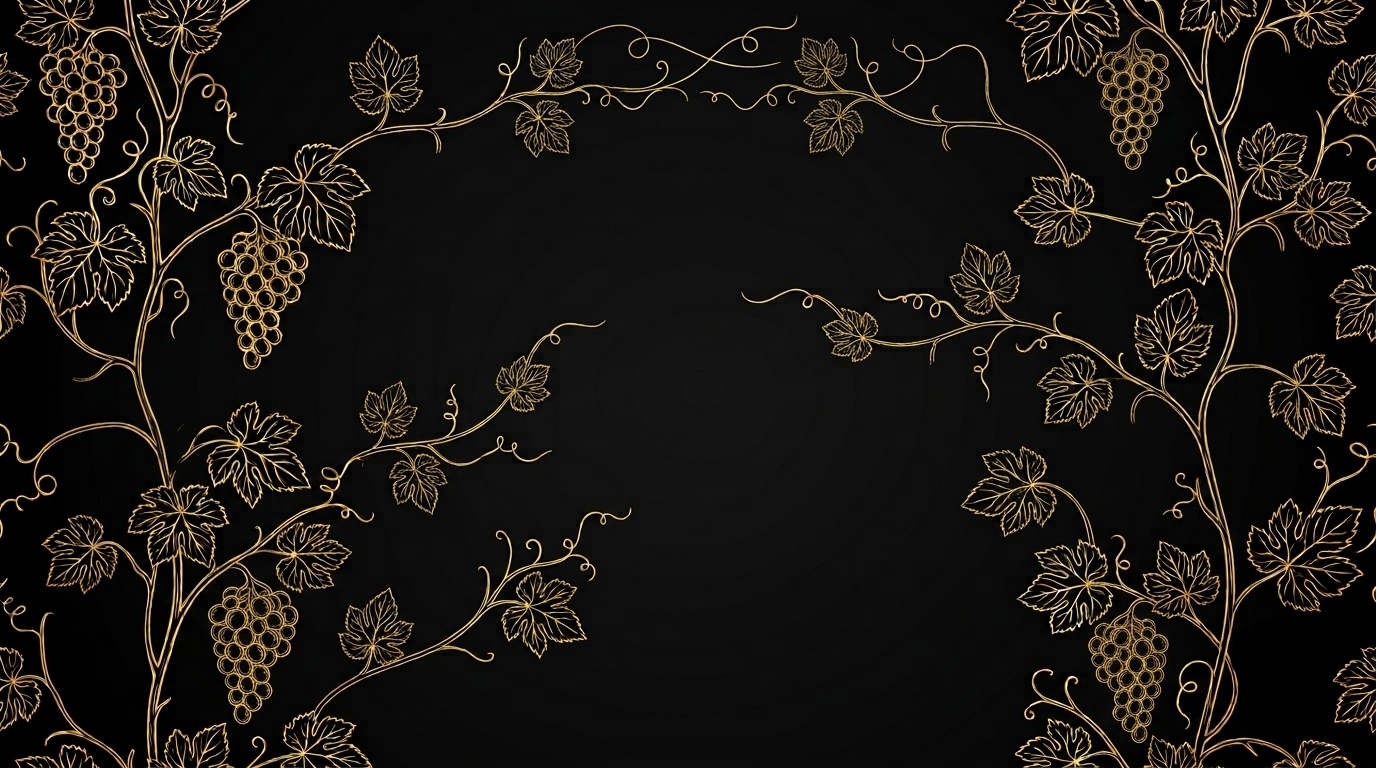
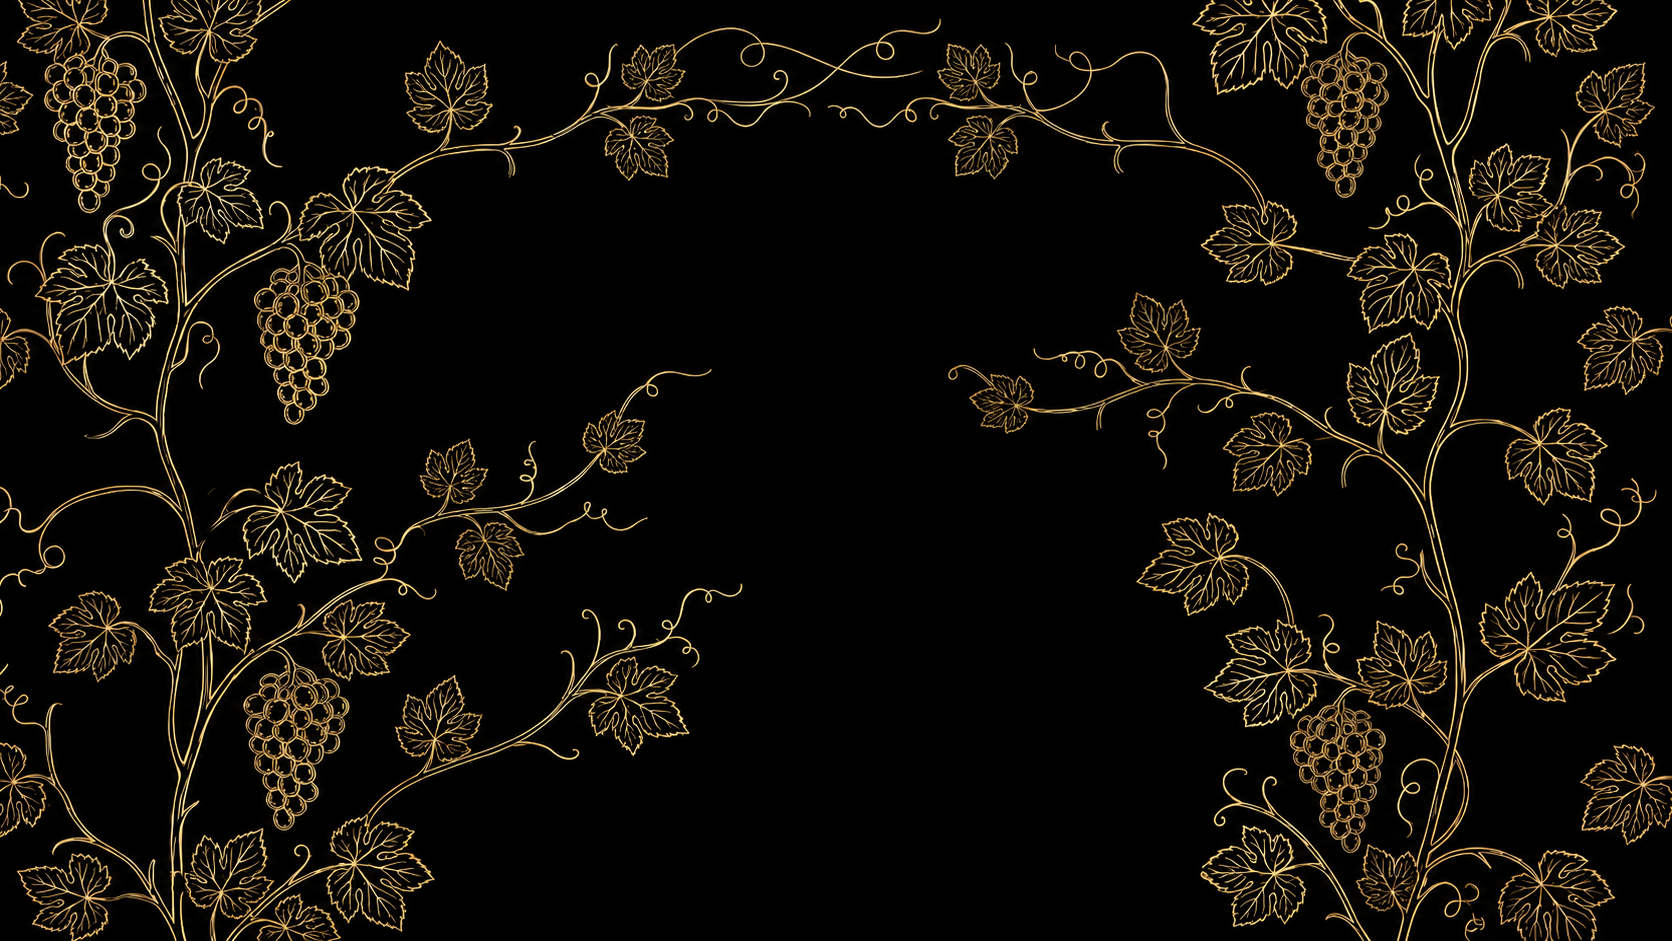
axali

Changed region(s): [[0.0, 0.0, 1.0, 1.0]]

diff --git a/src/pages/Hotel.jsx b/src/pages/Hotel.jsx
@@ -1,10 +1,29 @@
+import hotel from "/hotel.png";
+
 function Hotel() {
   return (
     <>
-    <div className="relative w-full flex flex-col items-center justify-center text-center px-4 overflow-hidden bg-footer min-h-[calc(100vh-5rem)] md:min-h-[calc(100vh-6rem)] lg:h-225 py-12">
-     
-       </div>
-    
+      <div className="relative w-full flex flex-col items-center justify-center text-center px-4 overflow-hidden bg-footer min-h-[calc(100vh-5rem)] md:min-h-[calc(100vh-6rem)] lg:h-225 py-12">
+        <div
+          className="absolute inset-0 bg-cover bg-center bg-no-repeat brightness-50"
+          style={{ backgroundImage: `url(${hotel})` }}
+        />
+
+        <div className="relative z-10 container-center flex flex-col items-center justify-around w-full max-w-7xl h-full min-h-100 lg:h-225 gap-8 lg:gap-0">
+          <p className="font-BPGB text-Gold  tracking-[0.3em] uppercase">
+            სოფელი ოჟიო · კახეთი · საქართველო
+          </p>
+
+          <h1  className="font-DM text-textMuted w-300 leading-40 text-5xl text-center ">
+         სადაც კომფორტი ხვდება 
+            <p className=" text-Gold">ტრადიციას </p>
+          </h1>
+
+          <p className="w-full max-w-2xl font-BPGB text-white  tracking-wide leading-relaxed">
+          აღმოაჩინეთ განსაკუთრებული მზრუნველობა და გარემო, სადაც თითოეული დეტალი თქვენს დასვენებაზე ფიქრობს.
+          </p>
+        </div>
+      </div>
     </>
   );
 }

diff --git a/src/pages/Restaurant.jsx b/src/pages/Restaurant.jsx
@@ -1,9 +1,29 @@
+import restoranBG from "/restoranBG.png";
 
 function Restaurant(){
     return(<>
     <div className="relative w-full flex flex-col items-center justify-center text-center px-4 overflow-hidden bg-footer min-h-[calc(100vh-5rem)] md:min-h-[calc(100vh-6rem)] lg:h-225 py-12">
-     
-       </div>
+        <div
+          className="absolute inset-0 bg-cover bg-center bg-no-repeat brightness-50"
+          style={{ backgroundImage: `url(${restoranBG})` }}
+        />
+
+        <div className="relative z-10 container-center flex flex-col items-center justify-around w-full max-w-7xl h-full min-h-100 lg:h-225 gap-8 lg:gap-0">
+          <p className="font-BPGB text-Gold  sm:text-sm tracking-[0.3em] uppercase">
+            სოფელი ოჟიო · კახეთი · საქართველო
+          </p>
+
+          <h1 className="font-DM text-textMuted w-300 leading-40 text-5xl text-center ">
+          ქართული სუფრის ხელოვნება
+          <p className=" text-Gold">ტრადიციული კახური მასპინძლობა</p>
+            
+          </h1>
+
+          <p  className="w-full max-w-2xl font-BPGB text-white  tracking-wide leading-relaxed">
+            სადაც ქვევრის ღვინო და საუკეთესო კახური კერძები ერთმანეთს ერწყმის.
+          </p>
+        </div>
+      </div>
     </>)
 }
 export default Restaurant;

diff --git a/src/pages/Home.jsx b/src/pages/Home.jsx
@@ -4,7 +4,6 @@ import meinIMG from "/9.jpg";
 import meinIMG_2 from "/10.jpg";
 import BGfoto_2 from "/12.jpg";
 import terasa from "/5.jpg";
-import qvevri from "/qvevri.SVG";
 import grapes from "/grapes.svg";
 import arrow from "/arrow.svg";
 import { NavLink } from "react-router-dom";
@@ -18,20 +17,17 @@ function Home() {
           style={{ backgroundImage: `url(${mainBg})` }}
         />
 
-        <div className="relative z-10 flex flex-col items-center justify-around w-full max-w-7xl h-full min-h-100 lg:h-225 gap-8 lg:gap-0">
-          <p className="font-BPGB text-Gold text-xs sm:text-sm tracking-[0.3em]">
+        <div className="relative z-10 container-center flex flex-col items-center justify-around w-full max-w-7xl h-full min-h-100 lg:h-225 gap-8 lg:gap-0">
+          <p className="font-BPGB text-Gold  tracking-[0.3em] uppercase">
             სოფელი ოჟიო · კახეთი · საქართველო
           </p>
 
-          <h1 className="flex flex-col items-center font-DM text-Gold text-3xl sm:text-4xl md:text-5xl lg:text-6xl text-center">
-            <span className="text-textMuted block mb-20 ">
-              ტრადიცია, გემოვნება და ქართული
-            </span>
-
-            <span className="block leading-normal">სტუმარმასპინძლობა</span>
+          <h1 className="font-DM text-textMuted w-300 leading-40 text-5xl text-center ">
+            ტრადიცია, გემოვნება და ქართული
+            <p className=" text-Gold">სტუმარმასპინძლობა</p>
           </h1>
 
-          <p className="font-BPGB text-textMuted text-sm sm:text-base tracking-wide">
+          <p className="w-full max-w-2xl font-BPGB text-white  tracking-wide leading-relaxed">
             ავთენტური ქვევრის ღვინო · გასტრონომია · ბუტიკ სასტუნრო
           </p>
         </div>

diff --git a/src/pages/Cellar.jsx b/src/pages/Cellar.jsx
@@ -13,19 +13,17 @@ function Cellar() {
         />
 
         <div className="relative z-10 container-center flex flex-col items-center justify-around w-full max-w-7xl h-full min-h-100 lg:h-225 gap-8 lg:gap-0">
-          <p className="font-BPGB text-Gold  sm:text-sm tracking-[0.3em] uppercase">
+          <p className="font-BPGB text-Gold tracking-[0.3em] uppercase">
             სოფელი ოჟიო · კახეთი · საქართველო
           </p>
 
-          <h1 className="font-DM text-textMuted w-300 leading-40 text-3xl sm:text-4xl md:text-5xl lg:text-6xl text-center ">
+          <h1 className="font-DM text-textMuted w-300 leading-40 text-5xl text-center ">
             ღვინის მარანი და კახური
             <p className=" text-Gold">ტრადიციების საწყისი </p>
           </h1>
 
-          <p className="w-full max-w-2xl font-BPGB text-white text-sm sm:text-base md:text-lg tracking-wide leading-relaxed">
-            8000 წლის ისტორია ახლა თქვენს ჭიქაშია. ბეკას მარანი — ადგილი, სადაც
-            ქვევრის ღვინო ისევ ისე ისხმება, როგორც ათასი წლის წინ — ბუნებრივად,
-            სიყვარულით, კახური ტრადიციით.
+          <p className="w-full max-w-2xl font-BPGB text-white  tracking-wide leading-relaxed">
+            8000 წლის ისტორია ახლა თქვენს ჭიქაშია
           </p>
         </div>
       </div>
@@ -79,7 +77,7 @@ function Cellar() {
           </div>
         </div>
 
-        <Card/>
+        <Card />
       </div>
     </>
   );